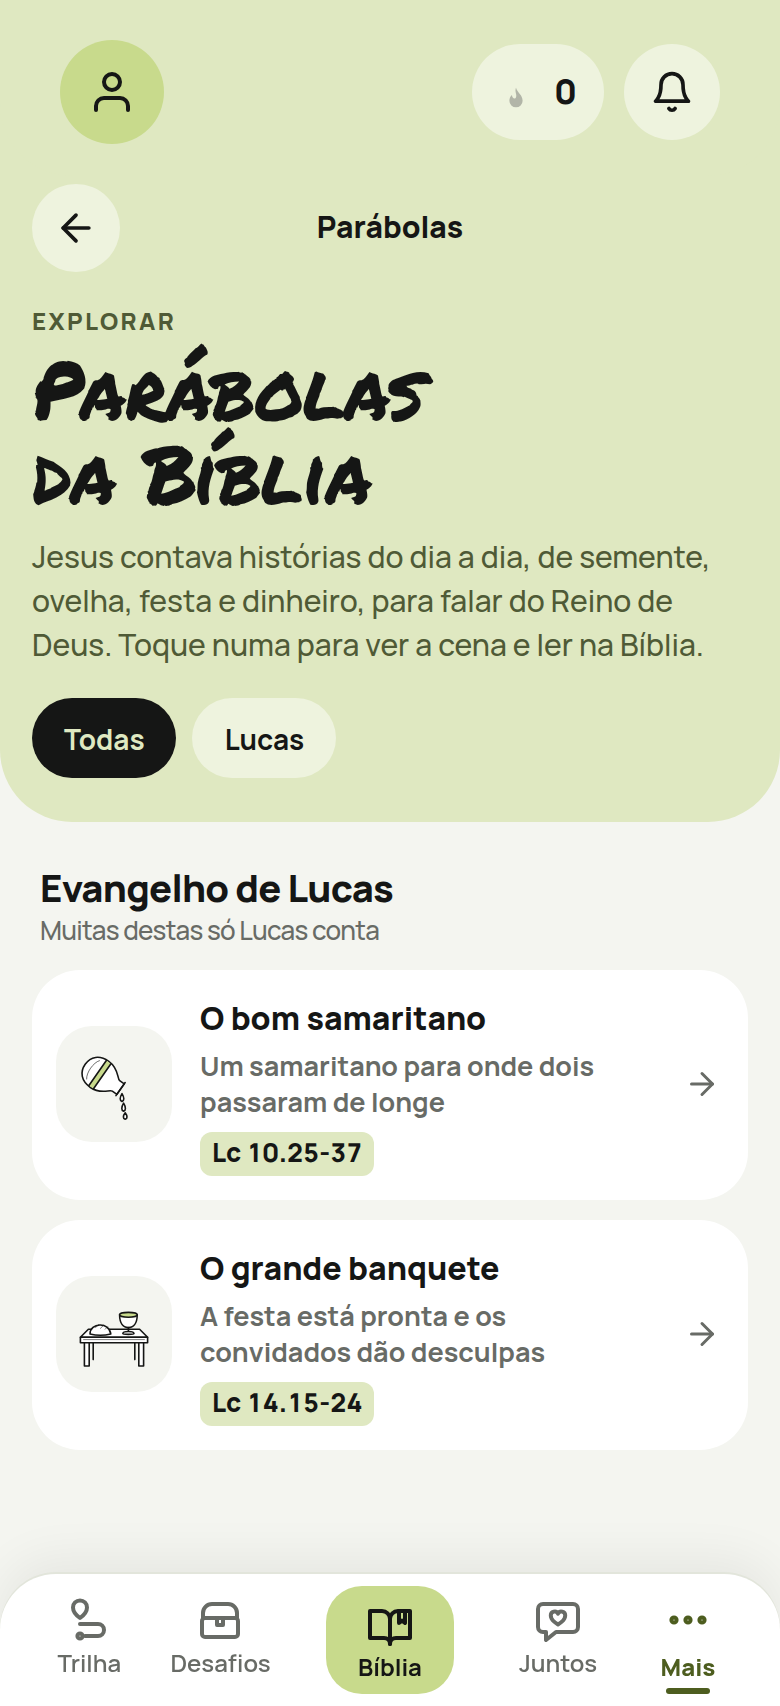
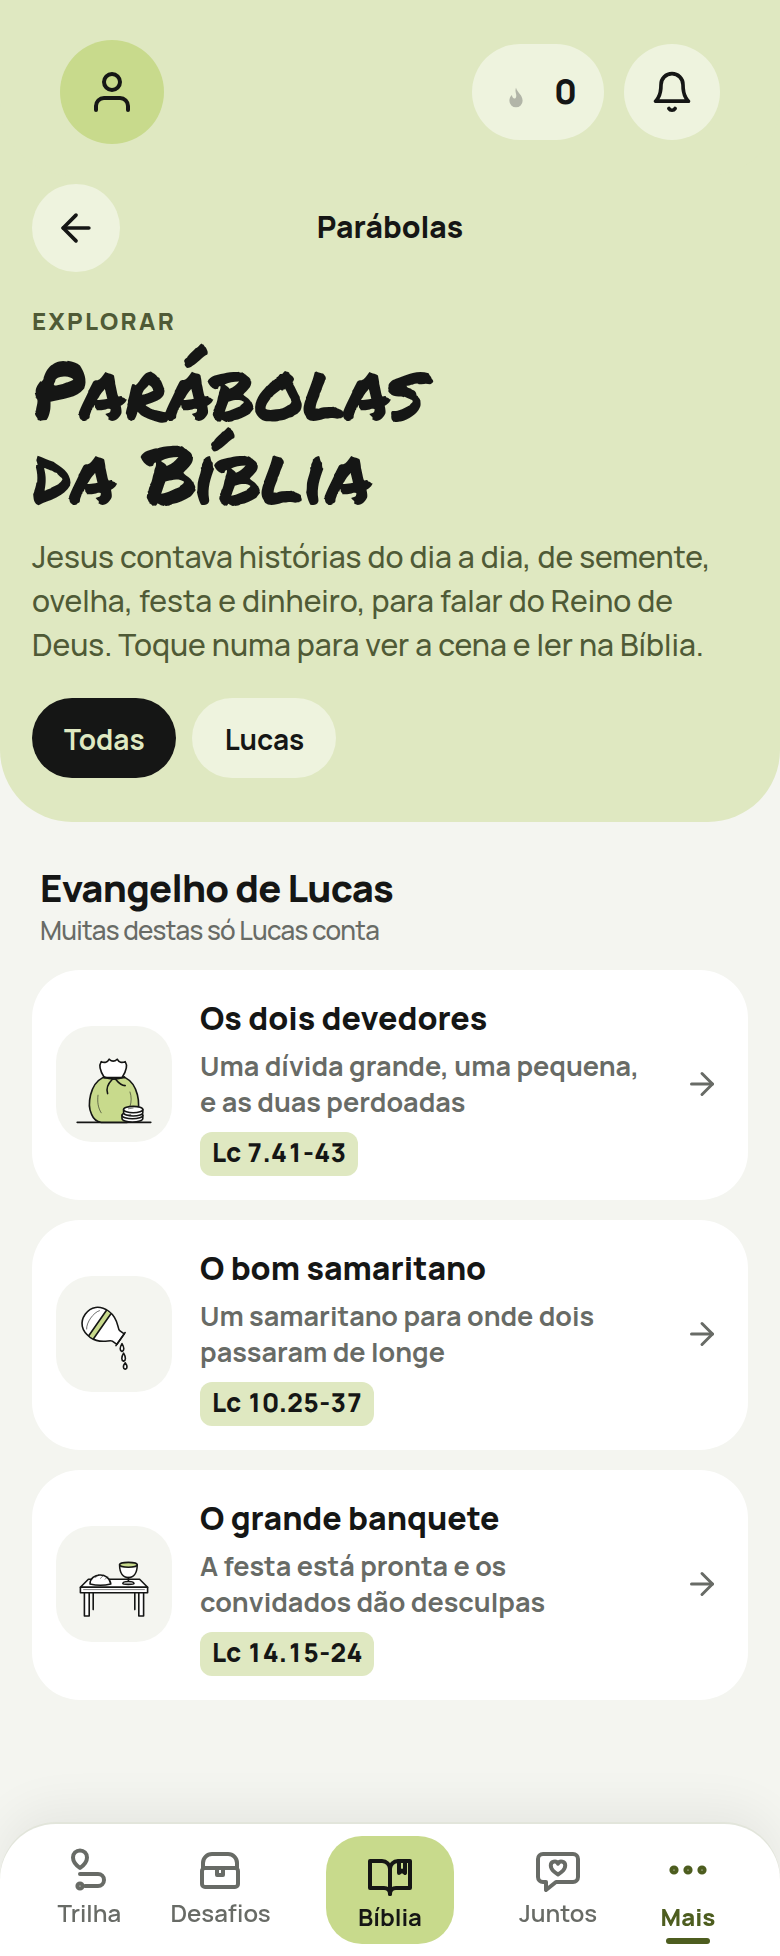
Parábola dos dois devedores e desenhos novos do sacerdote e do levita
Os dois devedores (Lc 7.41-43, com a cena de 7.36-50): três seções, as três
gentilezas que Simão não fez e a mulher fez, e o desenho novo das dívidas
perdoadas. No bom samaritano, o sacerdote ganha o turbante e o levita o
rolo da Lei, no lugar do incensário e da harpa. A palavra com hífen das
falas não quebra mais no hífen, e as seções ganham o ícone da moeda.

Claude-Session: https://claude.ai/code/session_0181e5xzHUW8QLQRgjbfooCS

diff --git a/src/sob-demanda/parabola-tela.js b/src/sob-demanda/parabola-tela.js
@@ -79,6 +79,8 @@
   // citação que abre com palavra curta não deixa a aspa e a palavra sozinhas no fim da linha
   const tx = (t) => CC.esc(t).replace(/([“‘]\S{1,2}) /g, '$1 ');
   const ref = (r) => (r ? ' ' + marca(r) : '');
+  // "dizer-lhe", "vê-lo": dentro das falas, a palavra com hífen não quebra no hífen
+  const falaTx = (t) => tx(t).replace(/[^\s“]+-[^\s”]+/g, '<span class="sem-quebra">$&</span>');
   // "Lc 14.15-24" → { livro: "Lucas", cap: 14, de: 15, ate: 24 }
   const NOME_DA_SIGLA = new Map((CC.LIVROS_MAPA || []).map(([nome, , sigla]) => [sigla, nome]));
   const trechoDe = (r) => {
@@ -91,6 +93,7 @@
     pao: '<path d="M4 12a8 5 0 0 1 16 0v5H4z"/><path d="M9 9l1.5 2M13 8.5l1.5 2"/>',
     pessoas: '<circle cx="9" cy="8" r="3"/><path d="M3 20c0-3.5 2.7-6 6-6s6 2.5 6 6"/><circle cx="17" cy="9" r="2.5"/><path d="M16 14c3 0 5 2.2 5 5"/>',
     estrada: '<path d="M8 3L4 21M16 3l4 18M12 5v3M12 11v3M12 17v3"/>',
+    moeda: '<circle cx="12" cy="12" r="8"/><circle cx="12" cy="12" r="4.5"/>',
     ancora: '<circle cx="12" cy="5" r="2"/><path d="M12 7v14M8 11h8M5 14c0 4 3 7 7 7s7-3 7-7"/>',
   };
   const rotulo = (icone, texto) => '<h2 class="mapa-rotulo"><svg viewBox="0 0 24 24" fill="none" stroke="currentColor" stroke-width="2" stroke-linecap="round" stroke-linejoin="round" aria-hidden="true">'
@@ -102,10 +105,10 @@
   const desenho = (p, id, classe) => (p.desenhos && p.desenhos[id] ? '<span class="desenho' + (classe ? ' ' + classe : '') + '" aria-hidden="true">' + p.desenhos[id] + '</span>' : '');
 
   function bloco(p, b) {
-    if (b.fala !== undefined) return '<p class="fala-parabola">“' + tx(b.fala) + '”' + ref(b.ref) + '</p>';
+    if (b.fala !== undefined) return '<p class="fala-parabola">“' + falaTx(b.fala) + '”' + ref(b.ref) + '</p>';
     if (b.itens) {
       return '<div class="itens-parabola" style="--colunas:' + b.itens.length + '">' + b.itens.map((it) => '<div class="item-cena">' + desenho(p, it.desenho)
-        + '<b>' + CC.esc(it.titulo) + '</b>' + (it.fala ? '<span>“' + tx(it.fala).replace(/[^\s“]+-[^\s”]+/g, '<span class="sem-quebra">$&</span>') + '”</span>' : '') + '</div>').join('') + '</div>';
+        + '<b>' + CC.esc(it.titulo) + '</b>' + (it.fala ? '<span>“' + falaTx(it.fala) + '”</span>' : '') + '</div>').join('') + '</div>';
     }
     return '<p class="texto-parabola">' + tx(b.texto) + ref(b.ref) + '</p>';
   }
